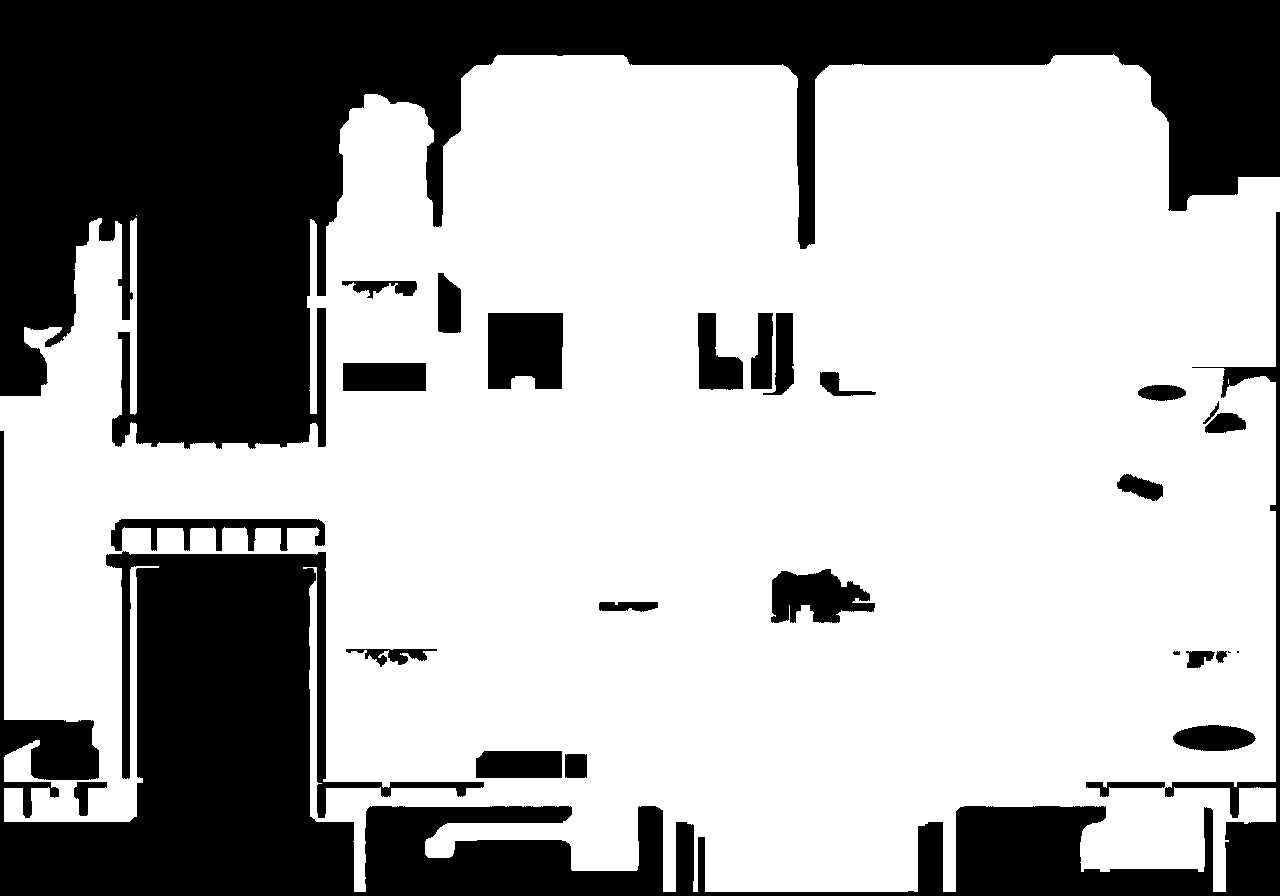
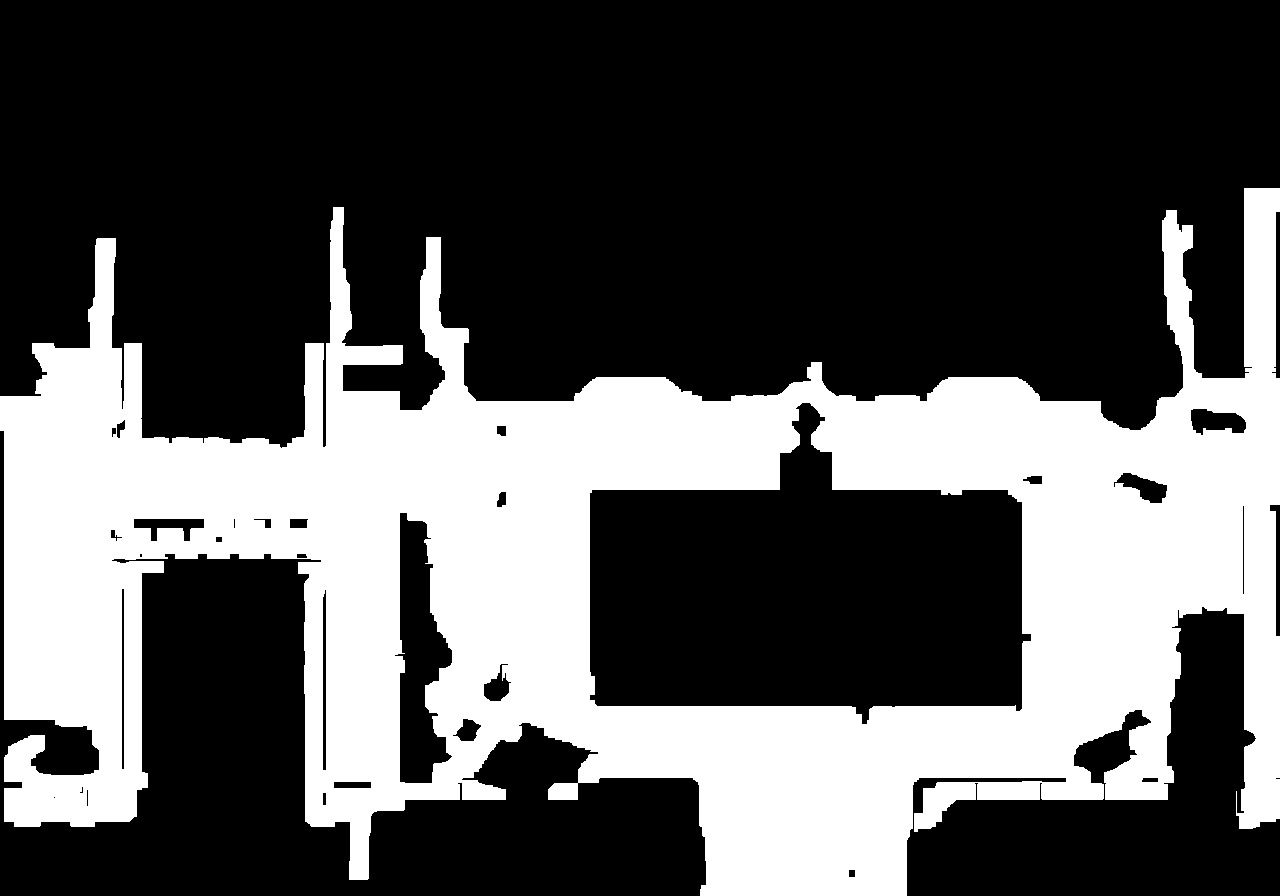
12h cycle 6: magenta-first extended to anchorroom — battery 4/4 x3; builder+drive generalized (generic exit-corridor borrow)

diff --git a/tools/art-pipeline/build_collision_magenta.py b/tools/art-pipeline/build_collision_magenta.py
@@ -11,14 +11,19 @@ import numpy as np
 from PIL import Image
 from skimage.morphology import skeletonize
 
+import sys
 ROOT = os.path.dirname(os.path.dirname(os.path.dirname(os.path.abspath(__file__))))
-ROOM = 'night-bazaar'
+ROOM = sys.argv[1] if len(sys.argv) > 1 else 'night-bazaar'
 K = 17
 
 mag = np.asarray(Image.open(os.path.join(
     ROOT, f'docs/art-options/magenta-ground-{ROOM}-nowires.png')).convert('L')) > 127
-old = np.asarray(Image.open(os.path.join(
-    ROOT, f'docs/art-options/collision-backup-{ROOM}.png')).convert('L')) > 127
+bak = os.path.join(ROOT, f'docs/art-options/collision-backup-{ROOM}.png')
+cur = os.path.join(ROOT, f'assets/rooms/{ROOM}.collision.png')
+if not os.path.exists(bak):
+    import shutil
+    shutil.copy(cur, bak)
+old = np.asarray(Image.open(bak).convert('L')) > 127
 H, W = old.shape
 walk = cv2.resize(mag.astype(np.uint8), (W, H), interpolation=cv2.INTER_AREA) > 0
 walk = cv2.morphologyEx(walk.astype(np.uint8), cv2.MORPH_CLOSE, np.ones((5, 5), np.uint8)) > 0
@@ -29,12 +34,34 @@ for e in inst.get('exits', []):
     if e['edge'] == 'w': x1 = min(x1, 36)
     if e['edge'] == 'e': x0 = max(x0, W - 36)
     walk[y0:y1, x0:x1] |= old[y0:y1, x0:x1]
-e = [x for x in inst['exits'] if x['edge'] == 'e'][0]
-x0, y0, x1, y1 = [v * 2 for v in e['rect']]
-walk[y0:y1, W - 400:] |= old[y0:y1, W - 400:]
-# north-lane pinch at local (~564, 76-96): sub-hitbox squeeze the drive
-# located exactly; borrow the shipped collision's proven lane there
-walk[80:200, 1080:1180] |= old[80:200, 1080:1180]
+def band_of(e):
+    x0, y0, x1, y1 = [v * 2 for v in e['rect']]
+    if e['edge'] == 'n': y1 = min(y1, 36)
+    if e['edge'] == 's': y0 = max(y0, H - 36)
+    if e['edge'] == 'w': x1 = min(x1, 36)
+    if e['edge'] == 'e': x0 = max(x0, W - 36)
+    return x0, y0, x1, y1
+
+def reachable(w, e):
+    n2, lab2 = cv2.connectedComponents(w.astype(np.uint8))
+    sid2 = lab2[sy, sx]
+    x0, y0, x1, y1 = band_of(e)
+    return bool((lab2[y0:y1, x0:x1] == sid2).any())
+
+sx, sy = [v * 2 for v in inst['spawn']]
+# generic corridor borrow: any exit band unreachable from spawn borrows the
+# SHIPPED collision 400px inward along the exit rect (evidence, not carving)
+for e in inst.get('exits', []):
+    if reachable(walk, e):
+        continue
+    x0, y0, x1, y1 = [v * 2 for v in e['rect']]
+    if e['edge'] == 'e':   walk[y0:y1, W - 400:] |= old[y0:y1, W - 400:]
+    elif e['edge'] == 'w': walk[y0:y1, :400] |= old[y0:y1, :400]
+    elif e['edge'] == 'n': walk[:400, x0:x1] |= old[:400, x0:x1]
+    elif e['edge'] == 's': walk[H - 400:, x0:x1] |= old[H - 400:, x0:x1]
+    print(f'borrowed old corridor for unreachable {e["edge"]} exit')
+if ROOM == 'night-bazaar':
+    walk[80:200, 1080:1180] |= old[80:200, 1080:1180]  # located north pinch
 
 free = cv2.erode(walk.astype(np.uint8), np.ones((K, K), np.uint8)) > 0
 covered = cv2.dilate(free.astype(np.uint8), np.ones((K, K), np.uint8)) > 0
@@ -42,7 +69,6 @@ skel = skeletonize(walk & ~covered)
 widened = cv2.dilate(skel.astype(np.uint8), np.ones((K + 2, K + 2), np.uint8)) > 0
 walk = walk | (widened & (cv2.dilate(walk.astype(np.uint8), np.ones((11, 11), np.uint8)) > 0))
 
-sx, sy = [v * 2 for v in inst['spawn']]
 n, lab = cv2.connectedComponents(walk.astype(np.uint8))
 walk = lab == lab[sy, sx]
 Image.fromarray((walk * 255).astype(np.uint8)).save(

diff --git a/tools/art-pipeline/magenta_ground_pass.py b/tools/art-pipeline/magenta_ground_pass.py
@@ -55,11 +55,12 @@ SCENES = {
  'anchorroom': 'docs/art-options/nbp-scifi-anchor-clean.png',
  'night-bazaar': 'docs/art-options/rooms/night-bazaar/plate.png',
  'night-bazaar-nowires': 'docs/art-options/rooms/night-bazaar/plate-nowires.png',
+ 'anchorroom-nowires': 'docs/art-options/rooms/anchorroom/plate-nowires.png',
  'plaza-market-inside': 'docs/art-options/rooms/plaza-market-inside/plate.png',
 }
 WALK_REF = {  # consensus-walk reference per scene, where one exists
  'anchorroom': 'anchorroom', 'night-bazaar': 'night-bazaar',
- 'night-bazaar-nowires': 'night-bazaar', 'plaza-market-inside': 'plaza-market-inside',
+ 'night-bazaar-nowires': 'night-bazaar', 'anchorroom-nowires': 'anchorroom', 'plaza-market-inside': 'plaza-market-inside',
 }
 MAG = np.array([255, 0, 255], np.int16)
 

diff --git a/tools/art-pipeline/STATUS.md b/tools/art-pipeline/STATUS.md
@@ -1519,3 +1519,17 @@ Model pinning skipped: Vertex exposes no dated alias for gemini-3-pro-image.
 - Board hygiene: DEBUG VIEW card rebuilt as three SAME-SIZE ImageLayers
   stacks (zmaps / 9-tile strips / 36-probe individual browser) per the
   ImageLayers contract; viewer PR #292 letterboxing remains the safety net.
+
+### Cycle 6 of 12h loop: magenta-first extended to ANCHORROOM (battery green)
+- Anchor legacy plate normalized to rooms/anchorroom/plate.png; wire removal
+  best-of-3 (2.41%, judge-clean); magenta v4 5/5 rolls (21.2% ground).
+- build_collision_magenta.py GENERALIZED: room arg, auto collision backup,
+  generic corridor borrow — any exit band unreachable from spawn borrows the
+  SHIPPED collision 400px inward (the bridge case triggers this on anchor's
+  west exit, as expected: magenta still refuses the bridge deck).
+- drive harness generalized (room arg, per-room world offset + exit bands).
+  ANCHOR BATTERY: 4/4 x 3 consecutive (e 489 steps, w 240 via bridge
+  corridor, walls-block, no errors). Bazaar regression check: 5/5.
+- Two of three focus scenes now fully on the magenta-first pipeline.
+  Remaining: plaza-market-inside (interior; room-mode drive), then fused
+  overhead for anchor/plaza.
